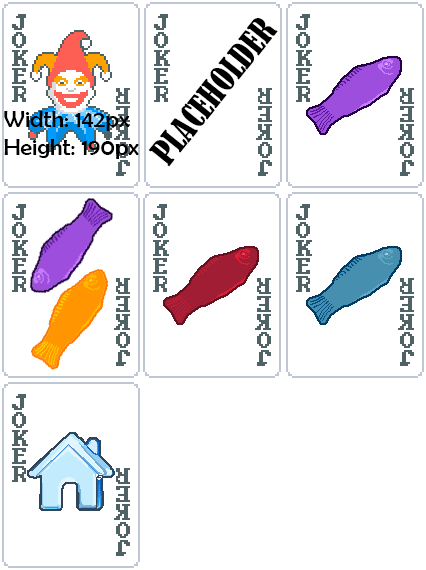
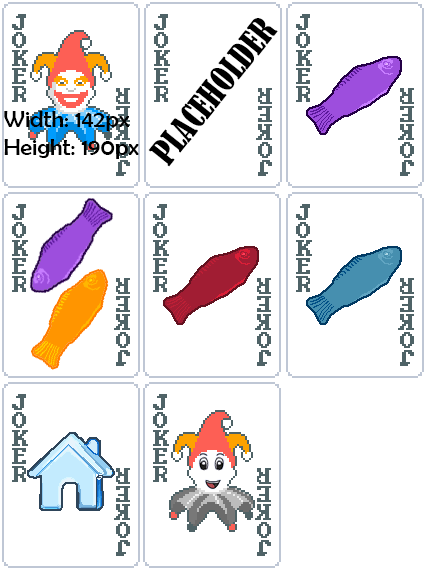
feat(joker/casper): Added Casper Joker (#11)

Changed region(s): [[0.3357, 0.6561, 0.6714, 1.0]]

diff --git a/docs/modContent/Jokers.md b/docs/modContent/Jokers.md
@@ -87,3 +87,20 @@ The following documentation page will contain the information about each of the 
     - Idea / Inspiration: **DevJacob**
     - Artwork: **DevJacob**
     - Code: **DevJacob**
+
+
+## Casper
+- Number: `6`
+- Rarity: `Rare`
+- Cost: `12`*
+- Compatibility:
+    - Blueprint: `No`
+    - Perishable: `No`
+- Effect: -1 Joker slot. After 5 rounds sell this card to create a random Legendary Joker
+- Settings Options:
+    - Enabled: Allows this joker to be turned on and off (Default: `true`)
+    - Cost: The base shop price of the joker (Default: `12`)
+- Credits:
+    - Idea / Inspiration: **DevJacob**
+    - Artwork: **DevJacob**
+    - Code: **DevJacob**

diff --git a/docs/Credits.md b/docs/Credits.md
@@ -14,3 +14,4 @@ A massive massive thank you goes out to everyone who contributed to the mod!
         - Two Fish Joker (Idea / Inspiration, Artwork, Code)
         - Red Fish Joker (Idea / Inspiration, Artwork, Code)
         - Blue Fish Joker (Idea / Inspiration, Artwork, Code)
+        - Casper Joker (Idea / Inspiration, Artwork, Code)
